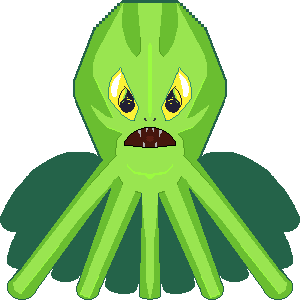
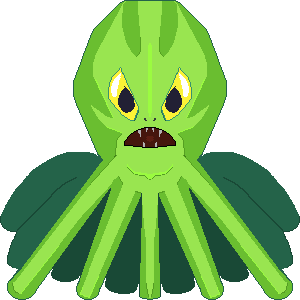
boss imgs

diff --git a/test3.py b/test3.py
@@ -68,8 +68,8 @@ enemy_bullet = pygame.image.load(os.path.join("data", "enemy_bullet.png")).conve
 hp_powerup = pygame.image.load(os.path.join("data", "powerup_hp.png")).convert_alpha()
 
 #FIRST BOSS
-#POWERUP
 boss_v1_img = pygame.image.load(os.path.join("data", "boss_v1.png")).convert_alpha()
+boss_v1_death = pygame.image.load(os.path.join("data", "boss_v228.png")).convert_alpha()
 
 #Player shooting sound
 player_shoot_sound = pygame.mixer.Sound(os.path.join("data", "player_shoot.ogg"))
@@ -290,6 +290,7 @@ class Boss_v001(pygame.sprite.Sprite):
             self.speedy = 0
 
         if score == 101:
+            self.image = boss_v1_death
             self.speedy = -1
             if self.rect.bottom == HEIGHT - 800:
                 self.kill()
@@ -440,6 +441,8 @@ while  running:
             hits = pygame.sprite.groupcollide(pl_bullets, bossv1, True, False)
             for hit in hits:
                 score += 1
+                expl = Explosion(hit.rect.center)
+                all_sprites.add(expl)
 
 
     #Drawing score
